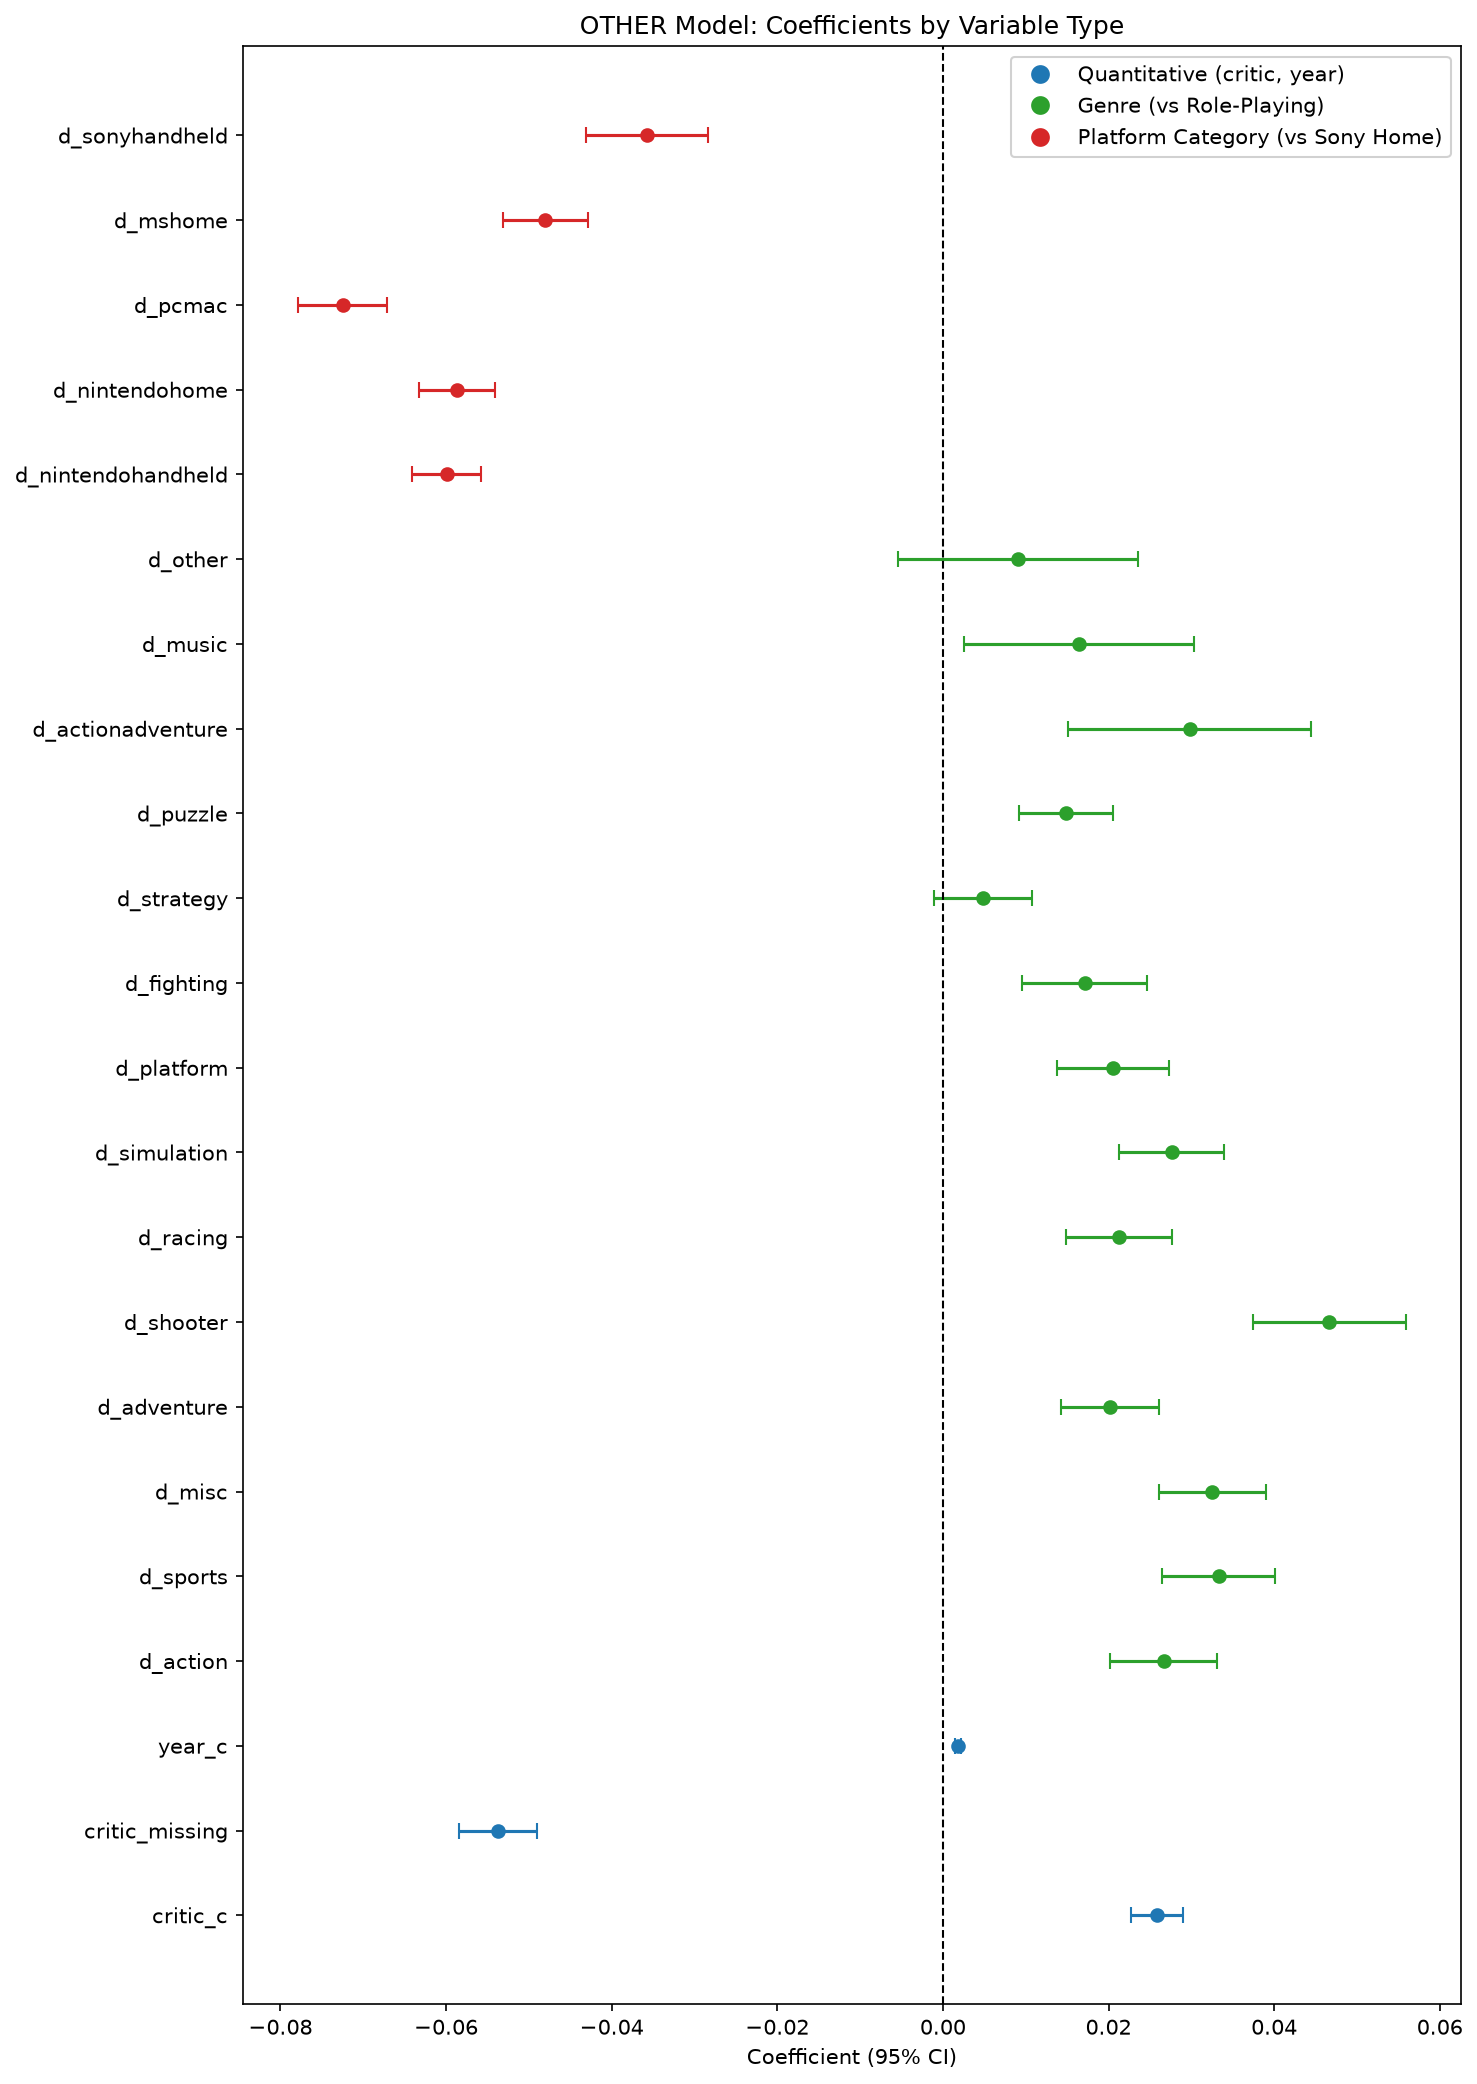
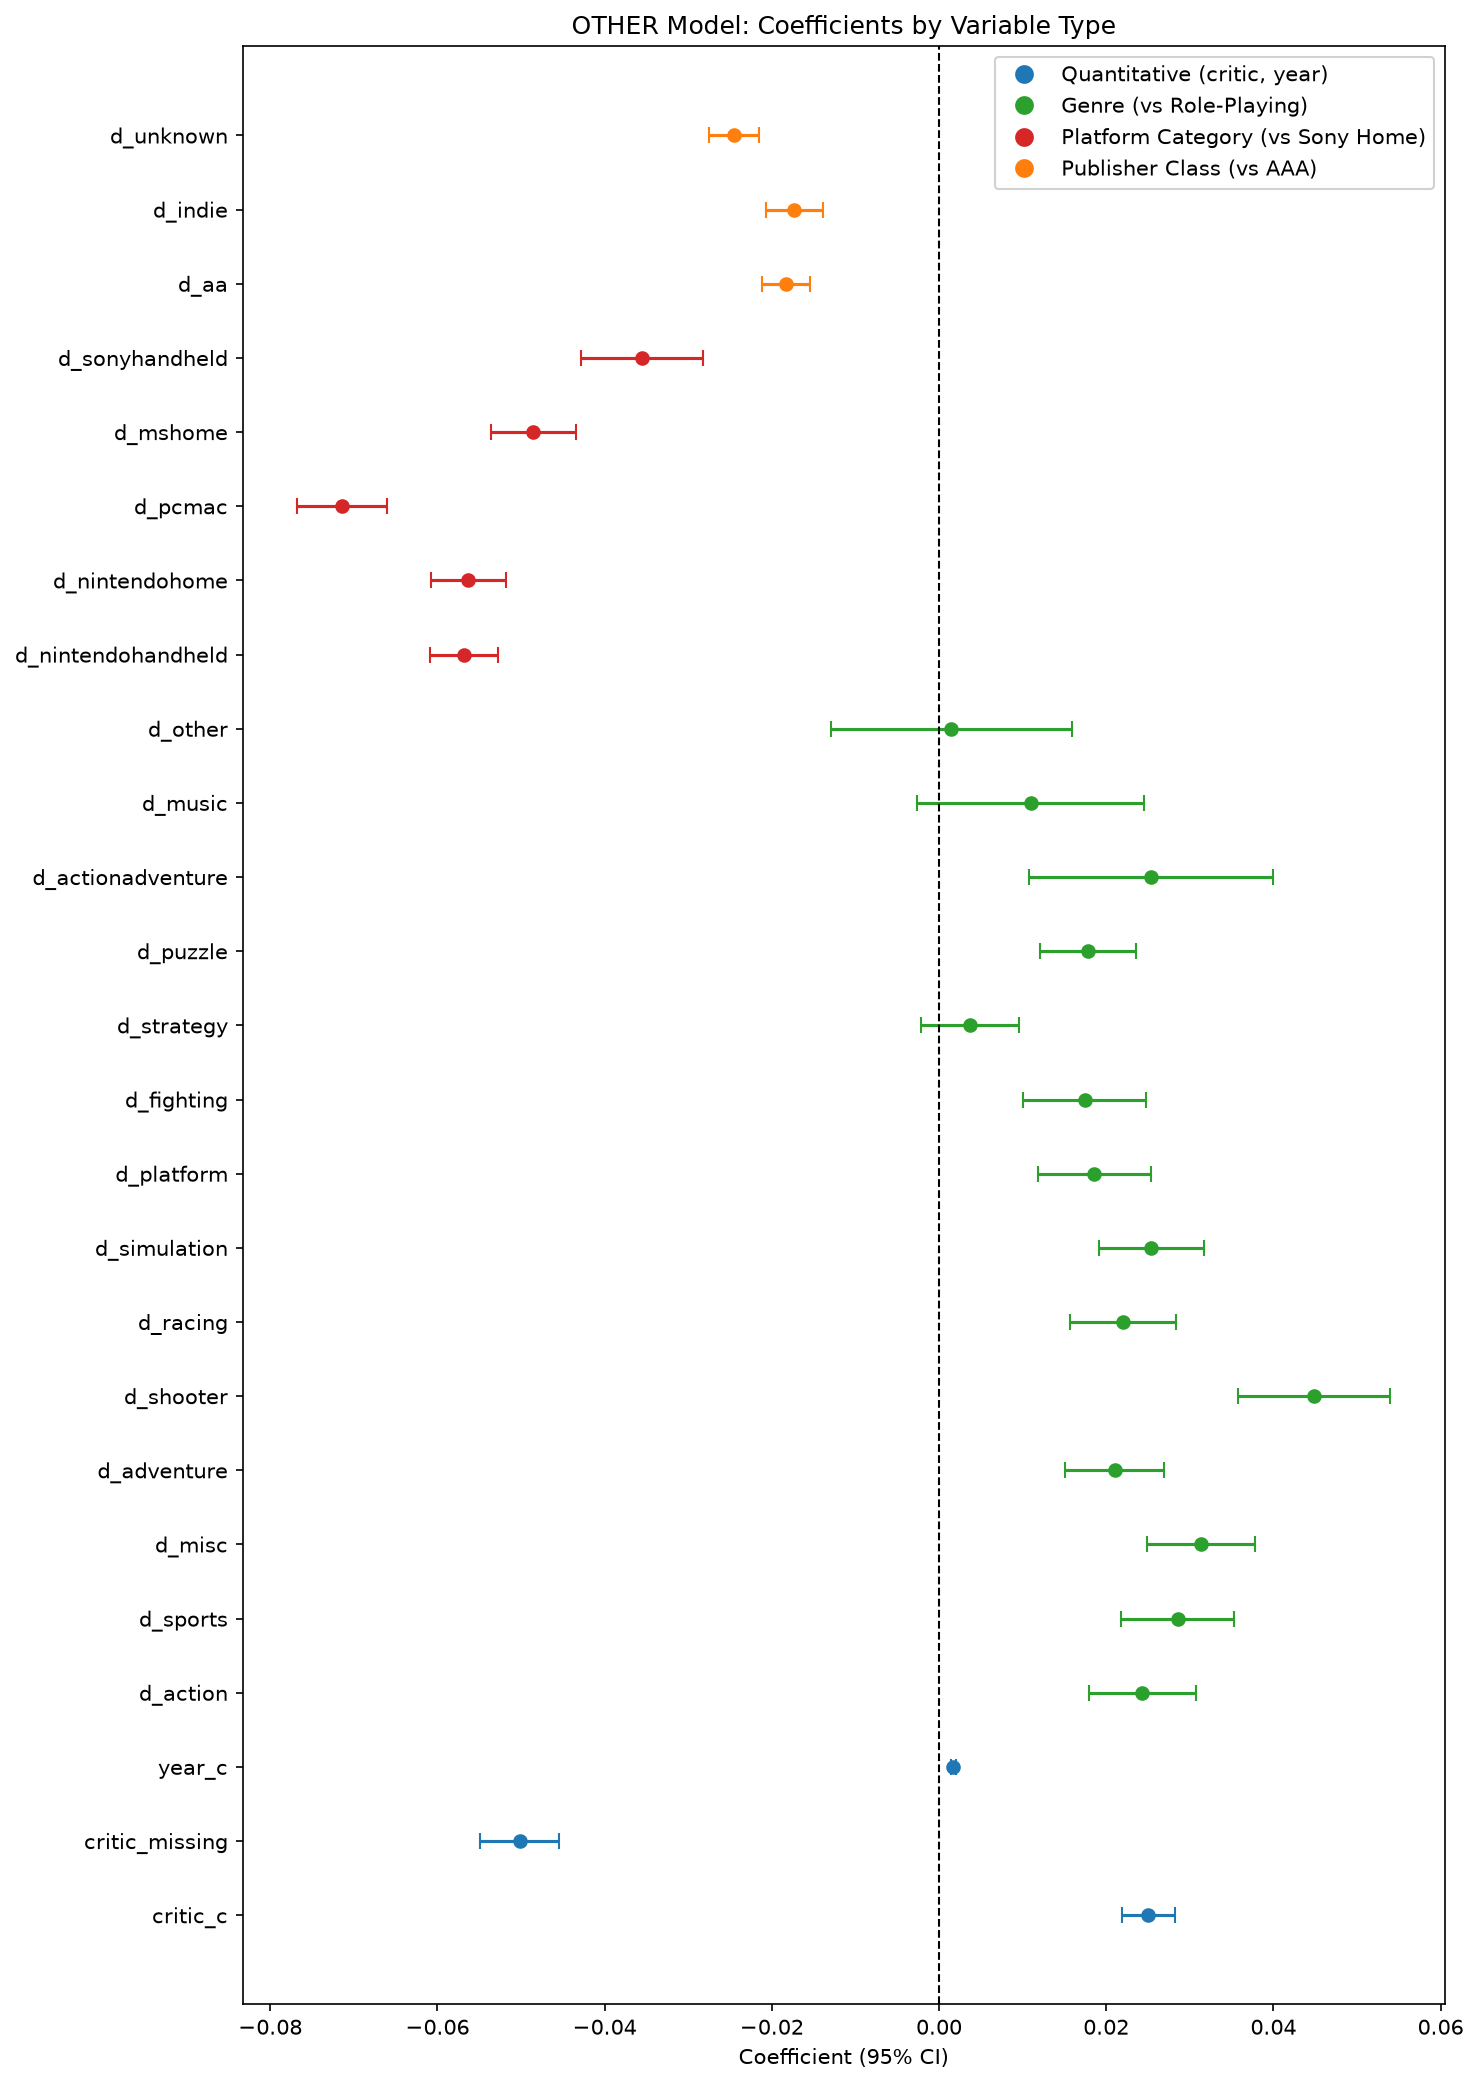
change in table and graphs by model update 1.1

diff --git a/scripts/table_and_graph_making.py b/scripts/table_and_graph_making.py
@@ -79,6 +79,7 @@ var_order = [
     "d_music", "d_other",
     "d_sega", "d_nintendohandheld", "d_nintendohome",
     "d_pcmac", "d_mshome", "d_sonyhandheld",
+    "d_aa", "d_indie", "d_unknown",
 ]
 
 ordered_vars = [v for v in var_order if v in pct_table.index]
@@ -102,7 +103,7 @@ fig.subplots_adjust(bottom=0.14)
 
 fig.text(# left-aligned footnote
     0.02, 0.07,
-    "Baseline: Role-Playing Games on Sony Home, year 2010, critic score 7.3.\ncritic_c is centred at 7.3; year_c is centred at 2010. Values are percentages relative to that baseline.\nEmpty cells = variable dropped from that regional model because it had fewer than 30 observations in that region\n",
+    "Baseline: AAA-published Role-Playing Games on Sony Home, year 2010, critic score 7.3.\n\ncritic_c is centred at 7.3; year_c is centred at 2010. Values are percentages relative to that baseline.\nEmpty cells = variable dropped from that regional model because it had fewer than 30 observations in that region\n",
     ha="left", va="bottom", fontsize=9
 )
 
@@ -125,12 +126,16 @@ groups = {
         "d_sega", "d_nintendohandheld", "d_nintendohome",
         "d_pcmac", "d_mshome", "d_sonyhandheld",
     ],
+    "Publisher Class": [
+        "d_aa", "d_indie", "d_unknown",
+    ],
 }
 
 group_colors = {
     "Quantitative": "tab:blue",
     "Genre": "tab:green",
     "Platform Category": "tab:red",
+    "Publisher Class": "tab:orange",
 }
 
 ordered_labels = []
@@ -164,13 +169,15 @@ plt.xlabel("Coefficient (95% CI)")
 plt.title("Overall Model: Coefficients by Variable Type")
 
 legend_elements = [
-    Line2D([0], [0], marker="o", color="w", markerfacecolor=group_colors["Quantitative"],
-           markersize=10, label="Quantitative (critic, year)"),
-    Line2D([0], [0], marker="o", color="w", markerfacecolor=group_colors["Genre"],
-           markersize=10, label="Genre (vs Role-Playing)"),
-    Line2D([0], [0], marker="o", color="w", markerfacecolor=group_colors["Platform Category"],
-           markersize=10, label="Platform Category (vs Sony Home)"),
-]
+        Line2D([0], [0], marker="o", color="w", markerfacecolor=group_colors["Quantitative"],
+               markersize=10, label="Quantitative (critic, year)"),
+        Line2D([0], [0], marker="o", color="w", markerfacecolor=group_colors["Genre"],
+               markersize=10, label="Genre (vs Role-Playing)"),
+        Line2D([0], [0], marker="o", color="w", markerfacecolor=group_colors["Platform Category"],
+               markersize=10, label="Platform Category (vs Sony Home)"),
+        Line2D([0], [0], marker="o", color="w", markerfacecolor=group_colors["Publisher Class"],
+               markersize=10, label="Publisher Class (vs AAA)"),
+    ]
 plt.legend(handles=legend_elements, loc="upper right", framealpha=0.9)
 
 plt.tight_layout()
@@ -216,6 +223,8 @@ for region in ["NA", "JP", "PAL", "OTHER"]: #for region, same theory
                markersize=10, label="Genre (vs Role-Playing)"),
         Line2D([0], [0], marker="o", color="w", markerfacecolor=group_colors["Platform Category"],
                markersize=10, label="Platform Category (vs Sony Home)"),
+        Line2D([0], [0], marker="o", color="w", markerfacecolor=group_colors["Publisher Class"],
+               markersize=10, label="Publisher Class (vs AAA)"),
     ]
     plt.legend(handles=legend_elements, loc="upper right", framealpha=0.9)
 
